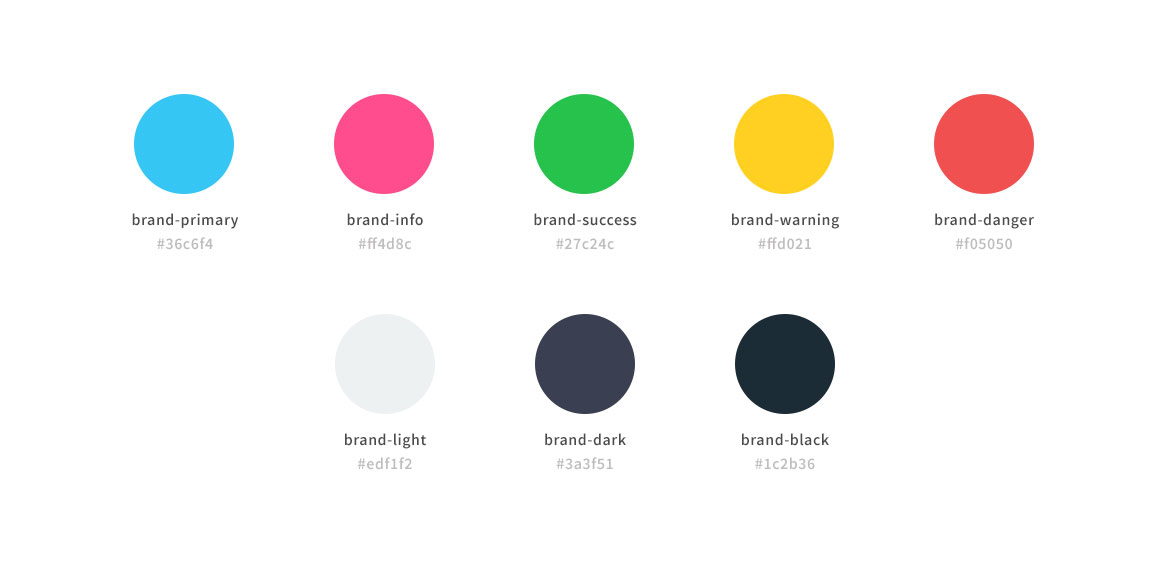
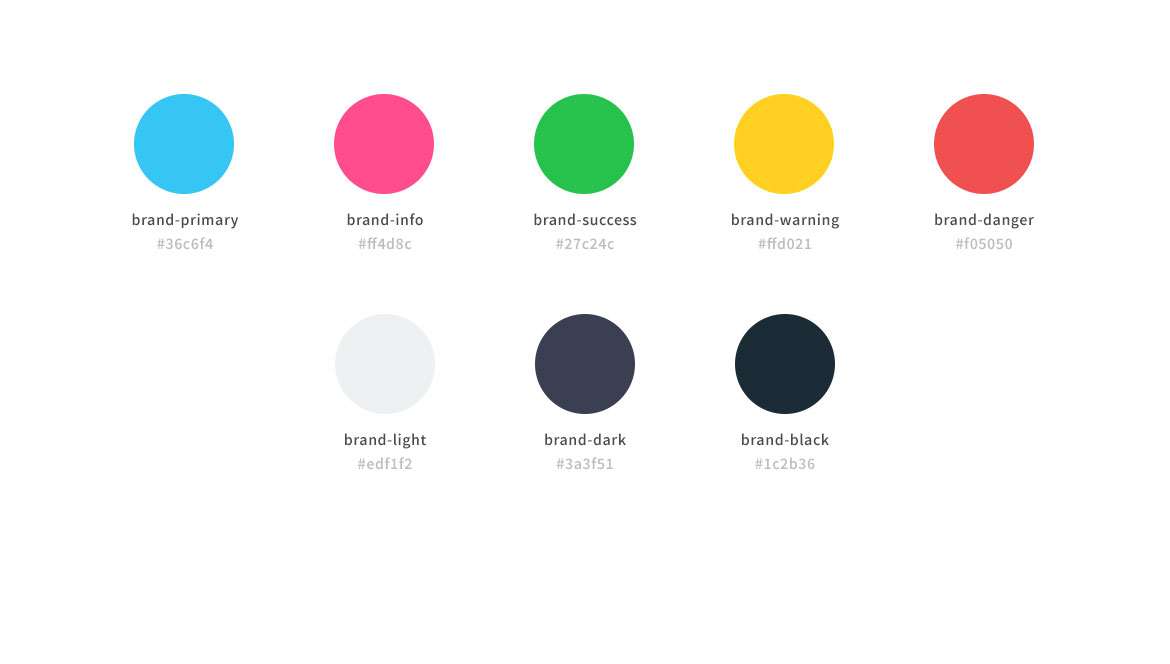
working on ddc

diff --git a/_layouts/project.html b/_layouts/project.html
@@ -77,13 +77,13 @@ layout: default
 {% endif %}
 
 {% if page.colorScheme %}
-<section class="p-v-xxl">
+<section class="p-t-xxl">
   <div class="container">
     <div class="row">
       <div class="col-sm-12">
         <h5 class="font-thin p-v-md b-b">Color Scheme</h5>
       </div>
-      <div class="col-sm-12 p-v-xxl">
+      <div class="col-sm-12 p-t-xxl">
         <img src="{{ site.baseurl }}/imgs{{ page.url }}color-scheme.{{ page.colorScheme }}" alt="" class="img-full">
       </div>
     </div>

diff --git a/work/_posts/2015-10-10-design-development-consultants.md b/work/_posts/2015-10-10-design-development-consultants.md
@@ -1,0 +1,38 @@
+---
+layout: project
+
+service:    web design, wordpress
+permalink:  /work/:title/
+
+history: ""
+
+handicraft: ""
+
+cover: jpg
+thumb: jpg
+
+eyeshot:
+
+dna:
+dnaHex:
+dnaBg:
+
+colorScheme: png
+
+typography: png
+typographyHex: c23b3b
+typographyBg:
+
+iconSet:
+
+inTheShow: 
+
+webDesign: png
+webDesignHex: 2cbd88
+webDesignBg:
+
+clinetReview:
+clientImage:
+clientName:
+clientRoll:
+---
